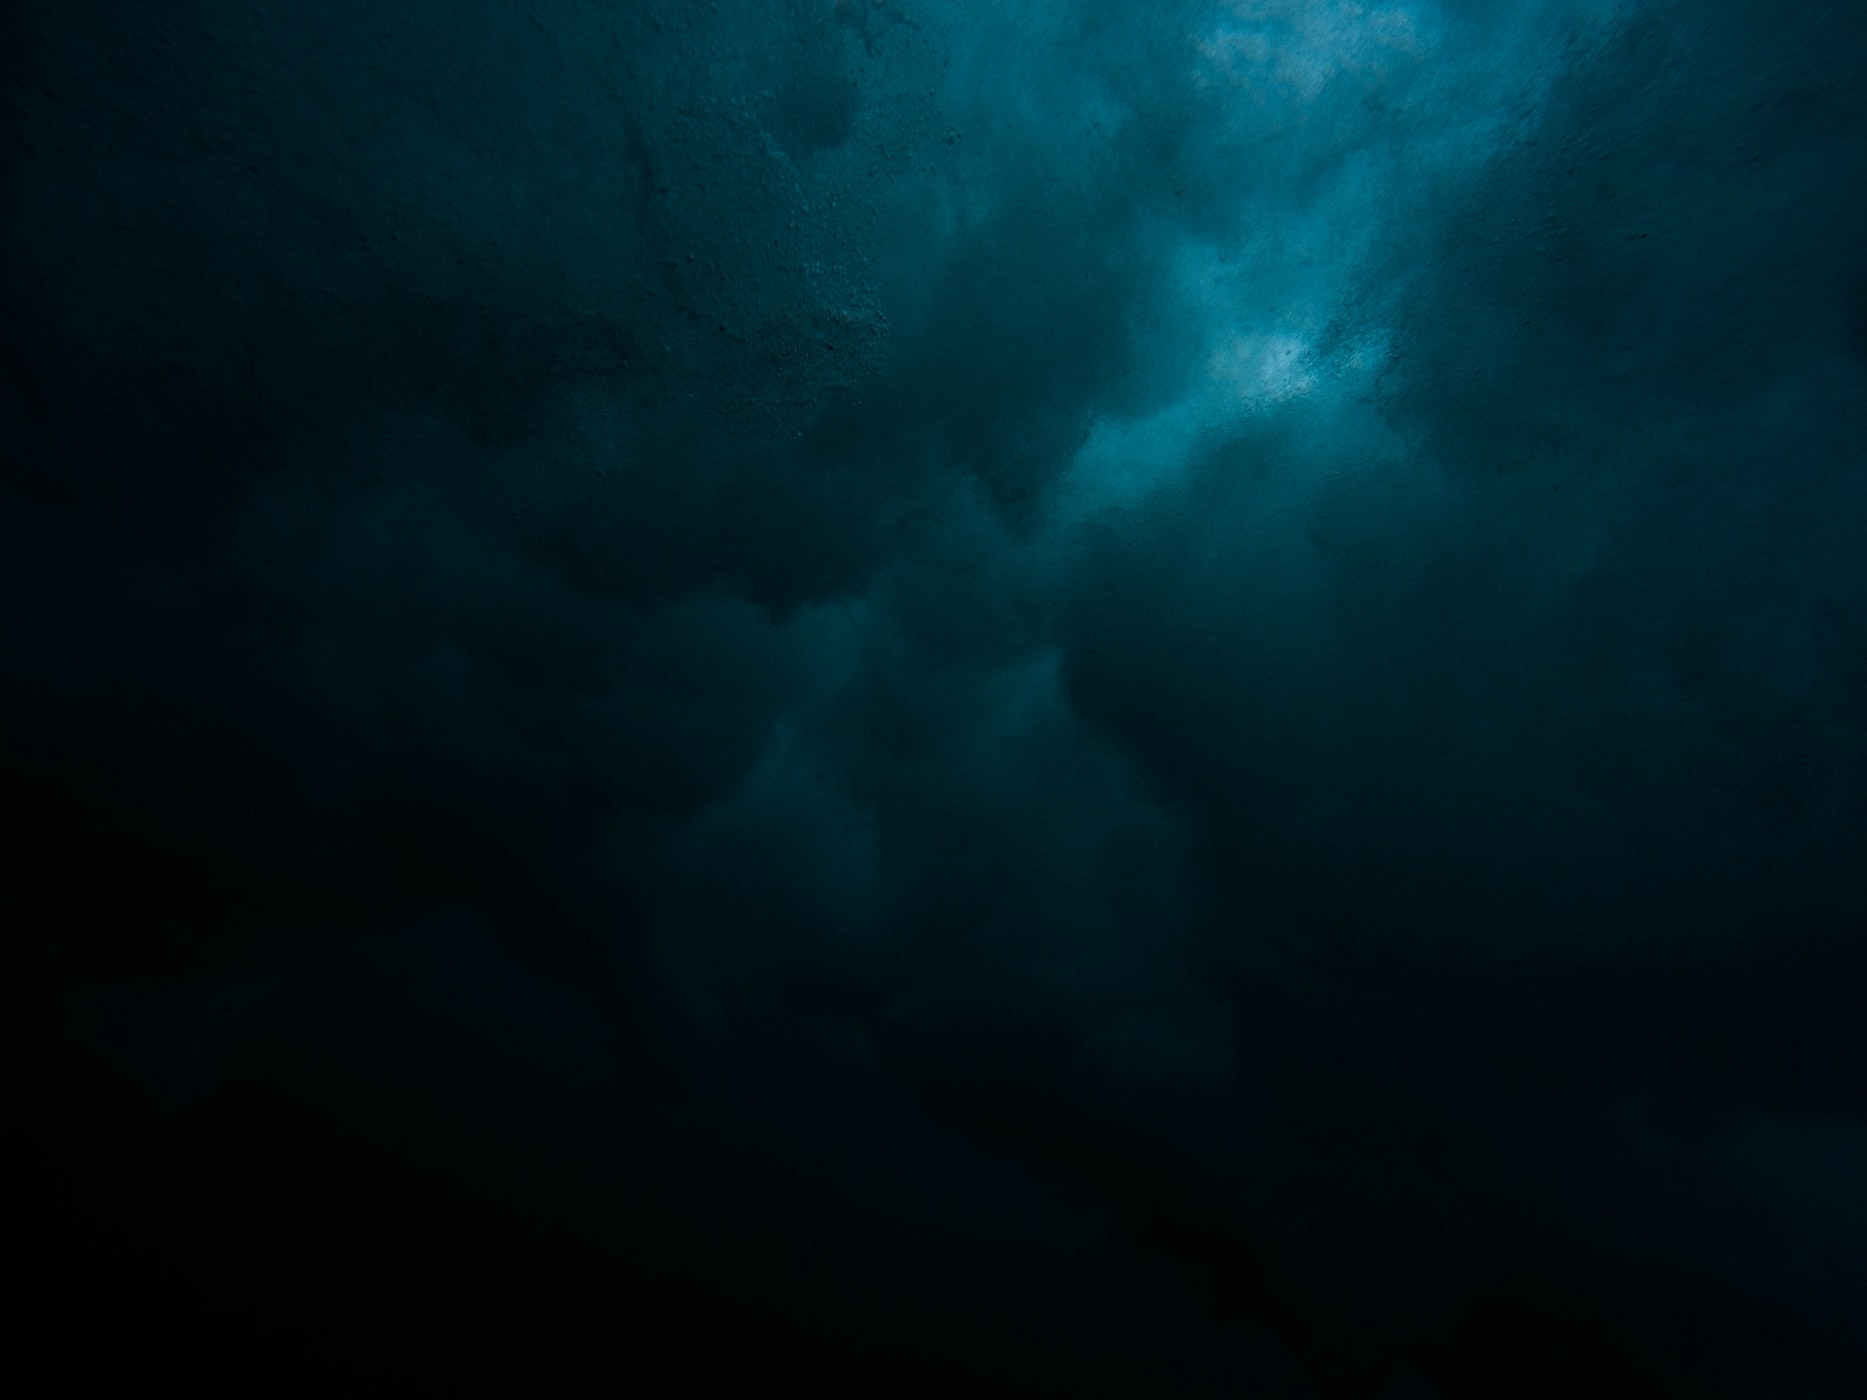
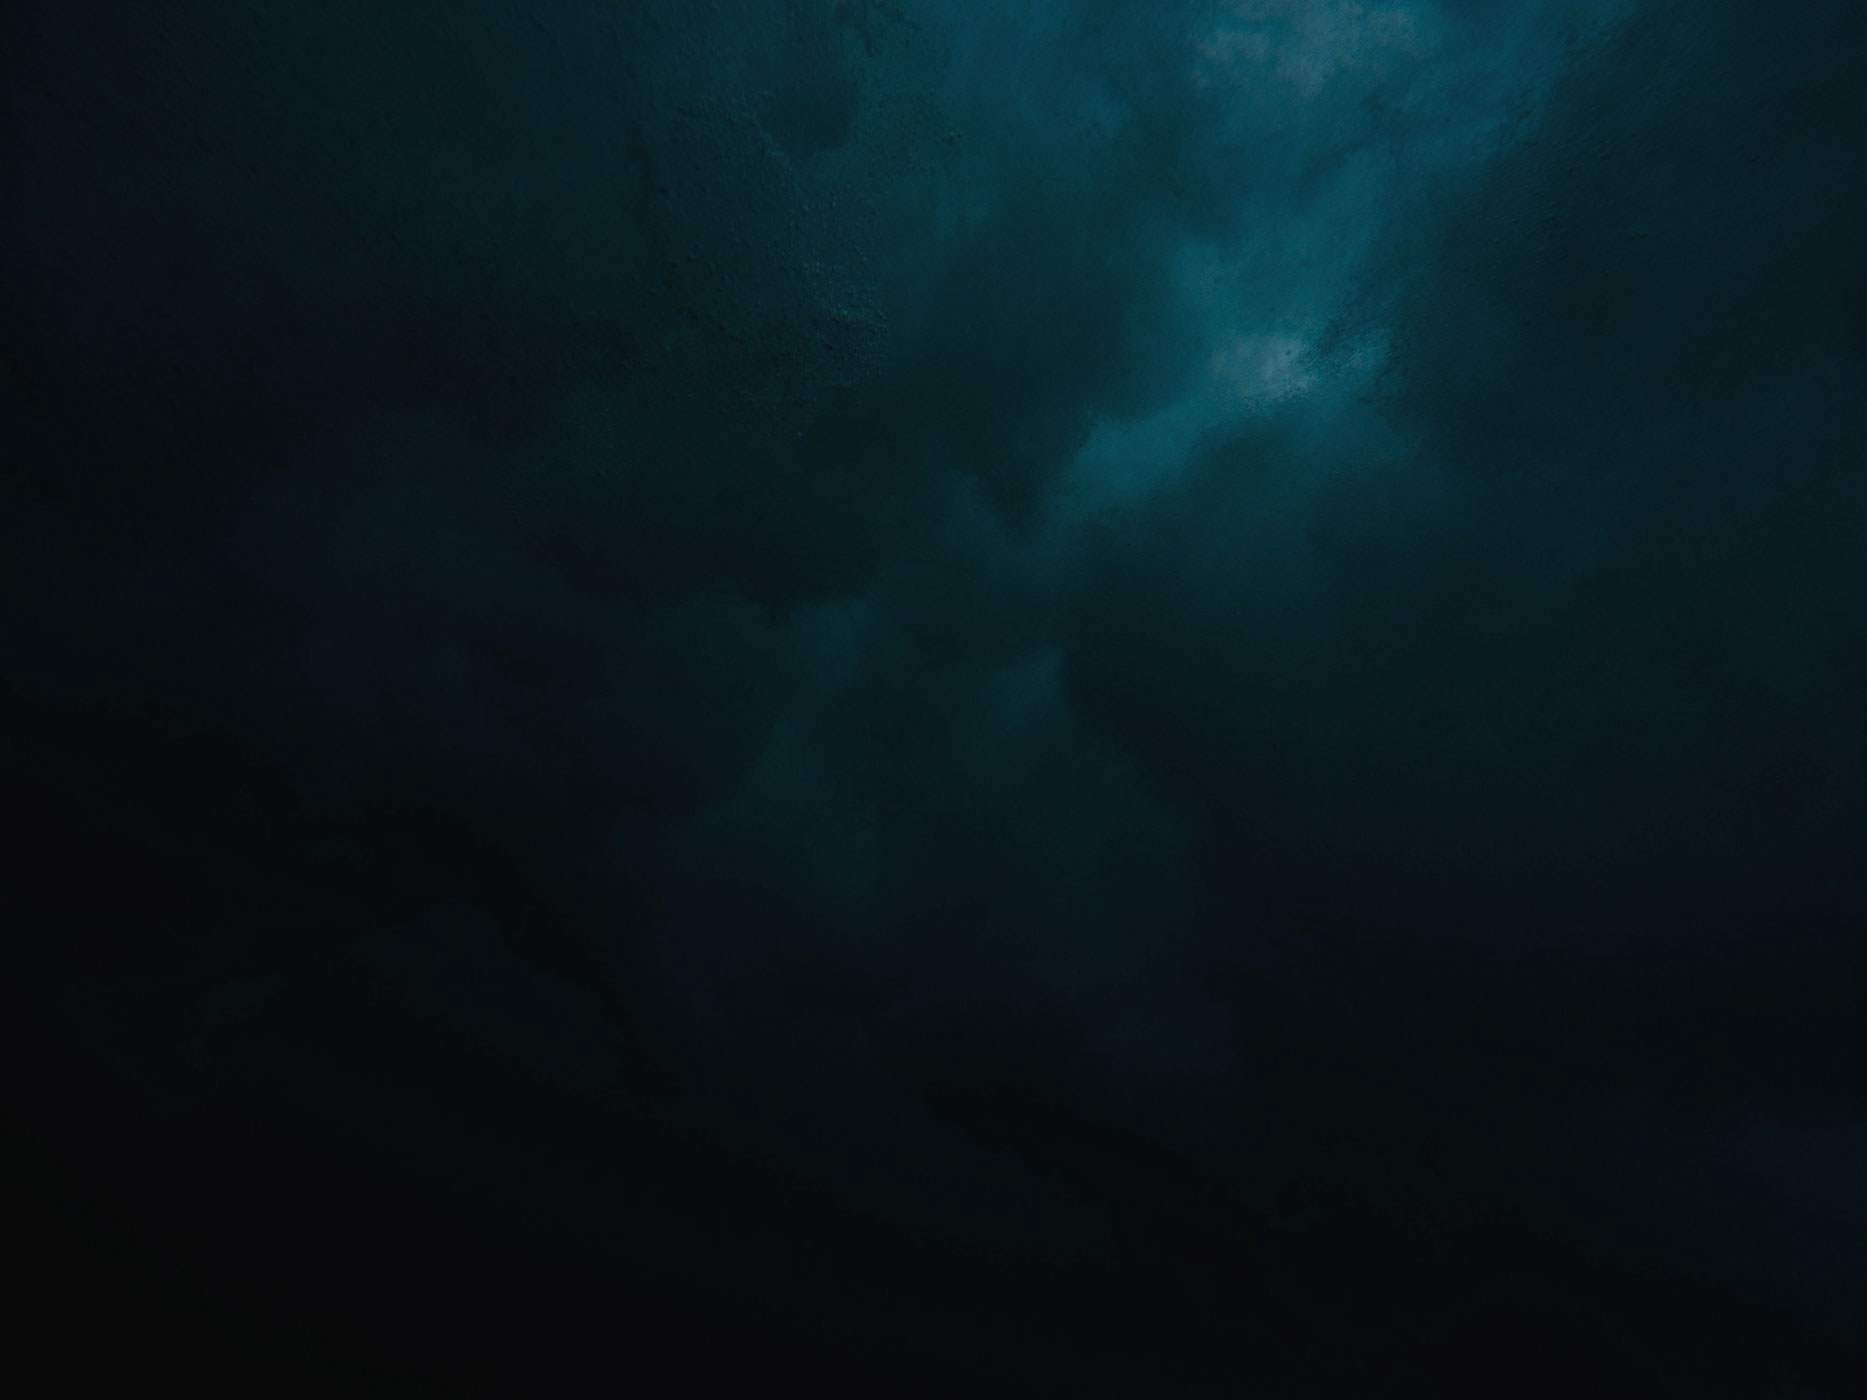
update boat bg images

Changed region(s): [[0.4039, 0.0, 0.9009, 0.3993], [0.3728, 0.0307, 0.4039, 0.0614]]

diff --git a/client/src/pages/index.tsx b/client/src/pages/index.tsx
@@ -8,7 +8,7 @@ import header3 from '../../content/images/homepage-header-3.jpeg'
 import boat1 from '../../content/images/homepage/nighthawk.png'
 import boat1BG from '../../content/images/homepage/nighthawk-bg.jpeg'
 import boat2 from '../../content/images/homepage/auroris.png'
-import boat2BG from '../../content/images/homepage/auroris-bg.png'
+import boat2BG from '../../content/images/homepage/auroris-bg.jpeg'
 import article1 from '../../content/images/article1.jpeg'
 import article2 from '../../content/images/article2.jpeg'
 import { ContentHeader } from '../atoms/content-header'
